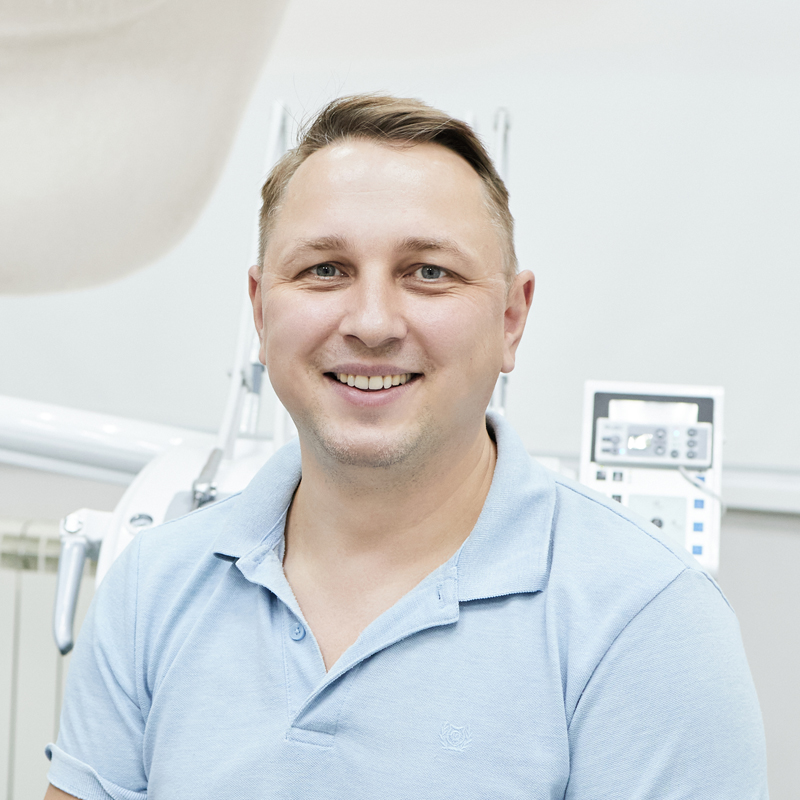
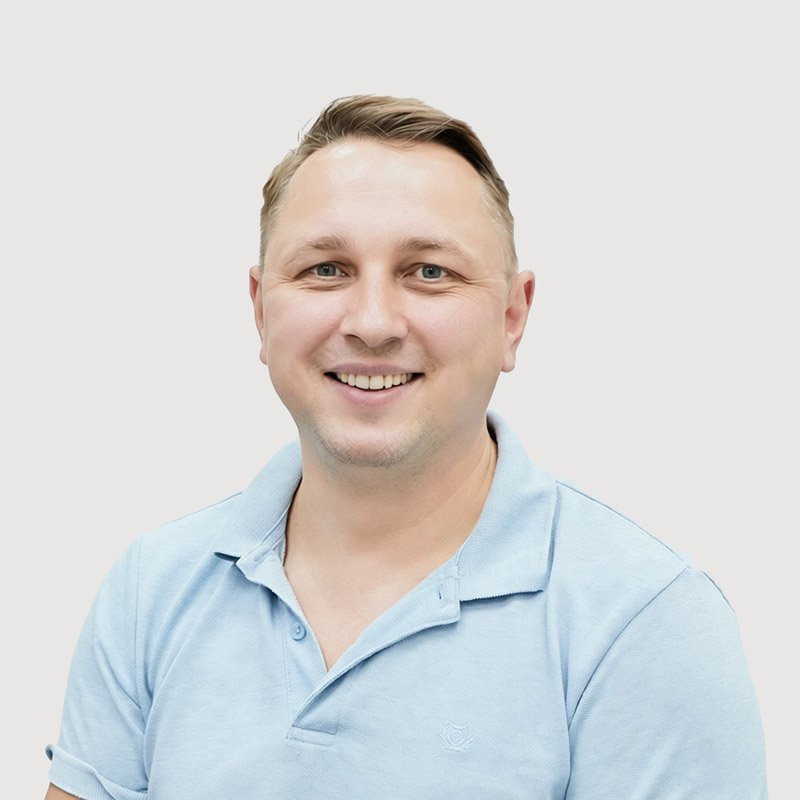
site_15

diff --git a/src/pages/Index.tsx b/src/pages/Index.tsx
@@ -21,6 +21,7 @@ import serviceProsthetics from "@/assets/service-prosthetics.jpg";
 import doctor1 from "@/assets/doctor-1.jpg";
 import doctor2 from "@/assets/doctor-2.jpg";
 import doctor3 from "@/assets/doctor-3.jpg";
+import doctor4 from "@/assets/doctor-4.jpg";
 
 const Index = () => {
   const location = useLocation();
@@ -95,10 +96,16 @@ const Index = () => {
       image: doctor2,
     },
     {
-      id: "administrator",
+      id: "administrator_1",
       name: "Софья",
       position: "Администратор",
       image: doctor3,
+    },
+    {
+      id: "administrator_2",
+      name: "Виктория",
+      position: "Администратор",
+      image: doctor4,
     },
   ];
 
@@ -267,53 +274,63 @@ const Index = () => {
         </div>
       </section>
 
-      {/* Team Section */}
+                              {/* Team Section */}
       <section id="team" className="py-5 bg-background">
         <div className="container mx-auto px-4">
           <h2 className="section-title">Наш коллектив</h2>
-          <div className="hidden md:grid md:grid-cols-3 gap-8">
-            {doctors.map((doctor) => (
-              <Card key={doctor.id} className="overflow-hidden hover:shadow-xl transition-shadow">
-                <img
-                  src={doctor.image}
-                  alt={doctor.name}
-                  className="w-full h-80 object-cover"
-                />
-                <div className="p-6 space-y-3">
-                  <h3 className="text-xl font-bold">{doctor.name}</h3>
-                  <p className="text-muted-foreground">{doctor.position}</p>
-                    <Link to={`/doctors/${doctor.id}`}>
+          {/* Для веб-версии - карусель с 3 врачами */}
+          <div className="hidden md:block h-[550px]">
+            <Carousel
+              itemsPerView={3}
+              items={doctors.map((doctor) => (
+                <div key={doctor.id} className="flex items-stretch justify-center px-4 h-full">
+                  <Card className="overflow-hidden w-full max-w-sm flex flex-col">
+                    <img
+                      src={doctor.image}
+                      alt={doctor.name}
+                      className="w-full h-80 object-cover"
+                    />
+                    <div className="p-6 space-y-3 flex flex-col flex-grow">
+                      <h3 className="text-xl font-bold">{doctor.name}</h3>
+                      <p className="text-muted-foreground flex-grow">{doctor.position}</p>
+                      <Link to={`/doctors/${doctor.id}`}>
                         {doctor.id === 'doctor_1' && (
-                            <Button variant="outline" className="w-full mt-4">
-                                Подробнее
-                            </Button>
+                          <Button variant="outline" className="w-full mt-4">
+                            Подробнее
+                          </Button>
                         )}
-                    </Link>
+                      </Link>
+                    </div>
+                  </Card>
                 </div>
-              </Card>
-            ))}
+              ))}
+            />
           </div>
+          {/* Для мобильной версии - карусель с 1 врачом */}
           <div className="md:hidden">
             <Carousel
+              itemsPerView={1}
               items={doctors.map((doctor) => (
-                <Card key={doctor.id} className="overflow-hidden mx-2">
-                  <img
-                    src={doctor.image}
-                    alt={doctor.name}
-                    className="w-full h-80 object-cover"
-                  />
-                  <div className="p-6 space-y-3">
-                    <h3 className="text-xl font-bold">{doctor.name}</h3>
-                    <p className="text-muted-foreground">{doctor.position}</p>
-                        <Link to={`/doctors/${doctor.id}`}>
-                            {doctor.id === 'doctor_1' && (
-                                <Button variant="outline" className="w-full mt-4">
-                                    Подробнее
-                                </Button>
-                            )}
-                        </Link>
-                  </div>
-                </Card>
+                <div key={doctor.id} className="px-2">
+                  <Card className="overflow-hidden">
+                    <img
+                      src={doctor.image}
+                      alt={doctor.name}
+                      className="w-full h-80 object-cover"
+                    />
+                    <div className="p-6 space-y-3">
+                      <h3 className="text-xl font-bold">{doctor.name}</h3>
+                      <p className="text-muted-foreground">{doctor.position}</p>
+                      <Link to={`/doctors/${doctor.id}`}>
+                        {doctor.id === 'doctor_1' && (
+                          <Button variant="outline" className="w-full mt-4">
+                            Подробнее
+                          </Button>
+                        )}
+                      </Link>
+                    </div>
+                  </Card>
+                </div>
               ))}
             />
           </div>

diff --git a/src/components/Carousel.tsx b/src/components/Carousel.tsx
@@ -1,4 +1,4 @@
-import { useState, useEffect } from "react";
+import { useState, useEffect, useRef } from "react";
 import { ChevronLeft, ChevronRight } from "lucide-react";
 import { cn } from "@/lib/utils";
 
@@ -10,32 +10,77 @@ interface CarouselProps {
   itemsPerView?: number;
 }
 
-const Carousel = ({ 
-  items, 
-  autoPlay = false, 
-  interval = 5000, 
+const Carousel = ({
+  items,
+  autoPlay = false,
+  interval = 5000,
   showControls = true,
-  itemsPerView = 1 
+  itemsPerView = 1
 }: CarouselProps) => {
   const [currentIndex, setCurrentIndex] = useState(0);
+  const isTransitioning = useRef(false);
+
+  // Создаем расширенный массив для бесконечной прокрутки (добавляем копии в начало и конец)
+  const extendedItems = [...items.slice(-itemsPerView), ...items, ...items.slice(0, itemsPerView)];
+  const realItemsCount = items.length;
+  const startIndex = itemsPerView;
+
+  const [internalIndex, setInternalIndex] = useState(startIndex);
 
   useEffect(() => {
     if (!autoPlay) return;
 
     const timer = setInterval(() => {
-      setCurrentIndex((prev) => (prev + 1) % items.length);
+      goToNext();
     }, interval);
 
     return () => clearInterval(timer);
-  }, [autoPlay, interval, items.length]);
+  }, [autoPlay, interval]);
 
   const goToPrevious = () => {
-    setCurrentIndex((prev) => (prev === 0 ? items.length - 1 : prev - 1));
+    if (isTransitioning.current) return;
+    setInternalIndex((prev) => prev - 1);
   };
 
   const goToNext = () => {
-    setCurrentIndex((prev) => (prev + 1) % items.length);
+    if (isTransitioning.current) return;
+    setInternalIndex((prev) => prev + 1);
   };
+
+  // Эффект для плавного зацикливания без рывка
+  useEffect(() => {
+    if (isTransitioning.current) return;
+
+    // Если дошли до конца расширенного массива
+    if (internalIndex >= realItemsCount + startIndex) {
+      isTransitioning.current = true;
+      setTimeout(() => {
+        setInternalIndex(startIndex);
+        setTimeout(() => {
+          isTransitioning.current = false;
+        }, 50);
+      }, 500); // Длительность анимации
+    }
+    // Если ушли в начало расширенного массива
+    else if (internalIndex < startIndex) {
+      isTransitioning.current = true;
+      setTimeout(() => {
+        setInternalIndex(realItemsCount + startIndex - 1);
+        setTimeout(() => {
+          isTransitioning.current = false;
+        }, 50);
+      }, 500);
+    }
+  }, [internalIndex, realItemsCount, startIndex]);
+
+  // Вычисляем реальный индекс для точек навигации
+  const getRealIndex = () => {
+    let realIndex = (internalIndex - startIndex) % realItemsCount;
+    if (realIndex < 0) realIndex += realItemsCount;
+    return realIndex;
+  };
+
+  const totalSlides = Math.ceil(realItemsCount / itemsPerView);
 
   return (
     <div className="relative w-full overflow-hidden">
@@ -43,13 +88,15 @@ const Carousel = ({
         <div
           className="flex transition-transform duration-500 ease-in-out"
           style={{
-            transform: `translateX(-${currentIndex * (100 / itemsPerView)}%)`,
+            transform: `translateX(-${internalIndex * (100 / itemsPerView)}%)`,
+            transition: isTransitioning.current ? 'none' : 'transform 0.5s ease-in-out'
           }}
         >
-          {items.map((item, index) => (
+          {extendedItems.map((item, index) => (
             <div
               key={index}
-              className={cn("flex-shrink-0", itemsPerView === 1 ? "w-full" : `w-full md:w-1/${itemsPerView}`)}
+              style={{ width: `${100 / itemsPerView}%` }}
+              className="flex-shrink-0"
             >
               {item}
             </div>
@@ -61,14 +108,14 @@ const Carousel = ({
         <>
           <button
             onClick={goToPrevious}
-            className="absolute left-2 top-1/2 -translate-y-1/2 bg-primary/80 text-primary-foreground p-2 rounded-full hover:bg-primary transition-colors"
+            className="absolute left-2 top-1/2 -translate-y-1/2 bg-primary/80 text-primary-foreground p-2 rounded-full hover:bg-primary transition-colors z-10"
             aria-label="Previous"
           >
             <ChevronLeft className="h-6 w-6" />
           </button>
           <button
             onClick={goToNext}
-            className="absolute right-2 top-1/2 -translate-y-1/2 bg-primary/80 text-primary-foreground p-2 rounded-full hover:bg-primary transition-colors"
+            className="absolute right-2 top-1/2 -translate-y-1/2 bg-primary/80 text-primary-foreground p-2 rounded-full hover:bg-primary transition-colors z-10"
             aria-label="Next"
           >
             <ChevronRight className="h-6 w-6" />
@@ -77,15 +124,18 @@ const Carousel = ({
       )}
 
       <div className="absolute bottom-4 left-1/2 -translate-x-1/2 flex gap-2">
-        {items.map((_, index) => (
+        {Array.from({ length: totalSlides }).map((_, idx) => (
           <button
-            key={index}
-            onClick={() => setCurrentIndex(index)}
+            key={idx}
+            onClick={() => {
+              const targetInternal = startIndex + (idx * itemsPerView);
+              setInternalIndex(targetInternal);
+            }}
             className={cn(
               "w-2 h-2 rounded-full transition-all",
-              index === currentIndex ? "bg-primary w-8" : "bg-muted"
+              Math.floor(getRealIndex() / itemsPerView) === idx ? "bg-primary w-8" : "bg-muted"
             )}
-            aria-label={`Go to slide ${index + 1}`}
+            aria-label={`Go to slide ${idx + 1}`}
           />
         ))}
       </div>

diff --git a/src/pages/DoctorPage.tsx b/src/pages/DoctorPage.tsx
@@ -5,6 +5,7 @@ import { useEffect, useState } from "react";
 import doctor1 from "@/assets/doctor-1.jpg";
 import doctor2 from "@/assets/doctor-2.jpg";
 import doctor3 from "@/assets/doctor-3.jpg";
+import doctor4 from "@/assets/doctor-4.jpg";
 
 const DoctorPage = () => {
   const { doctorId } = useParams();
@@ -42,28 +43,6 @@ const DoctorPage = () => {
       experience: "15 лет практики, более 9000 успешно пролеченных пациентов",
       job_review: "https://prodoctorov.ru/stavropol/vrach/241117-terentev/",
     },
-//     doctor_2: {
-//       name: "ФИО",
-//       position: "Должность",
-//       image: doctor2,
-//       bio: "Биография",
-//       education: [
-//         "Образование 1",
-//         "Образование 2",
-//       ],
-//       experience: "Опыт работы",
-//     },
-//     administrator: {
-//       name: "ФИО",
-//       position: "Должность",
-//       image: doctor3,
-//       bio: "Биография",
-//       education: [
-//         "Образование 1",
-//         "Образование 2",
-//       ],
-//       experience: "Опыт работы",
-//     },
   };
 
   const doctor = doctorId ? doctors[doctorId] : null;